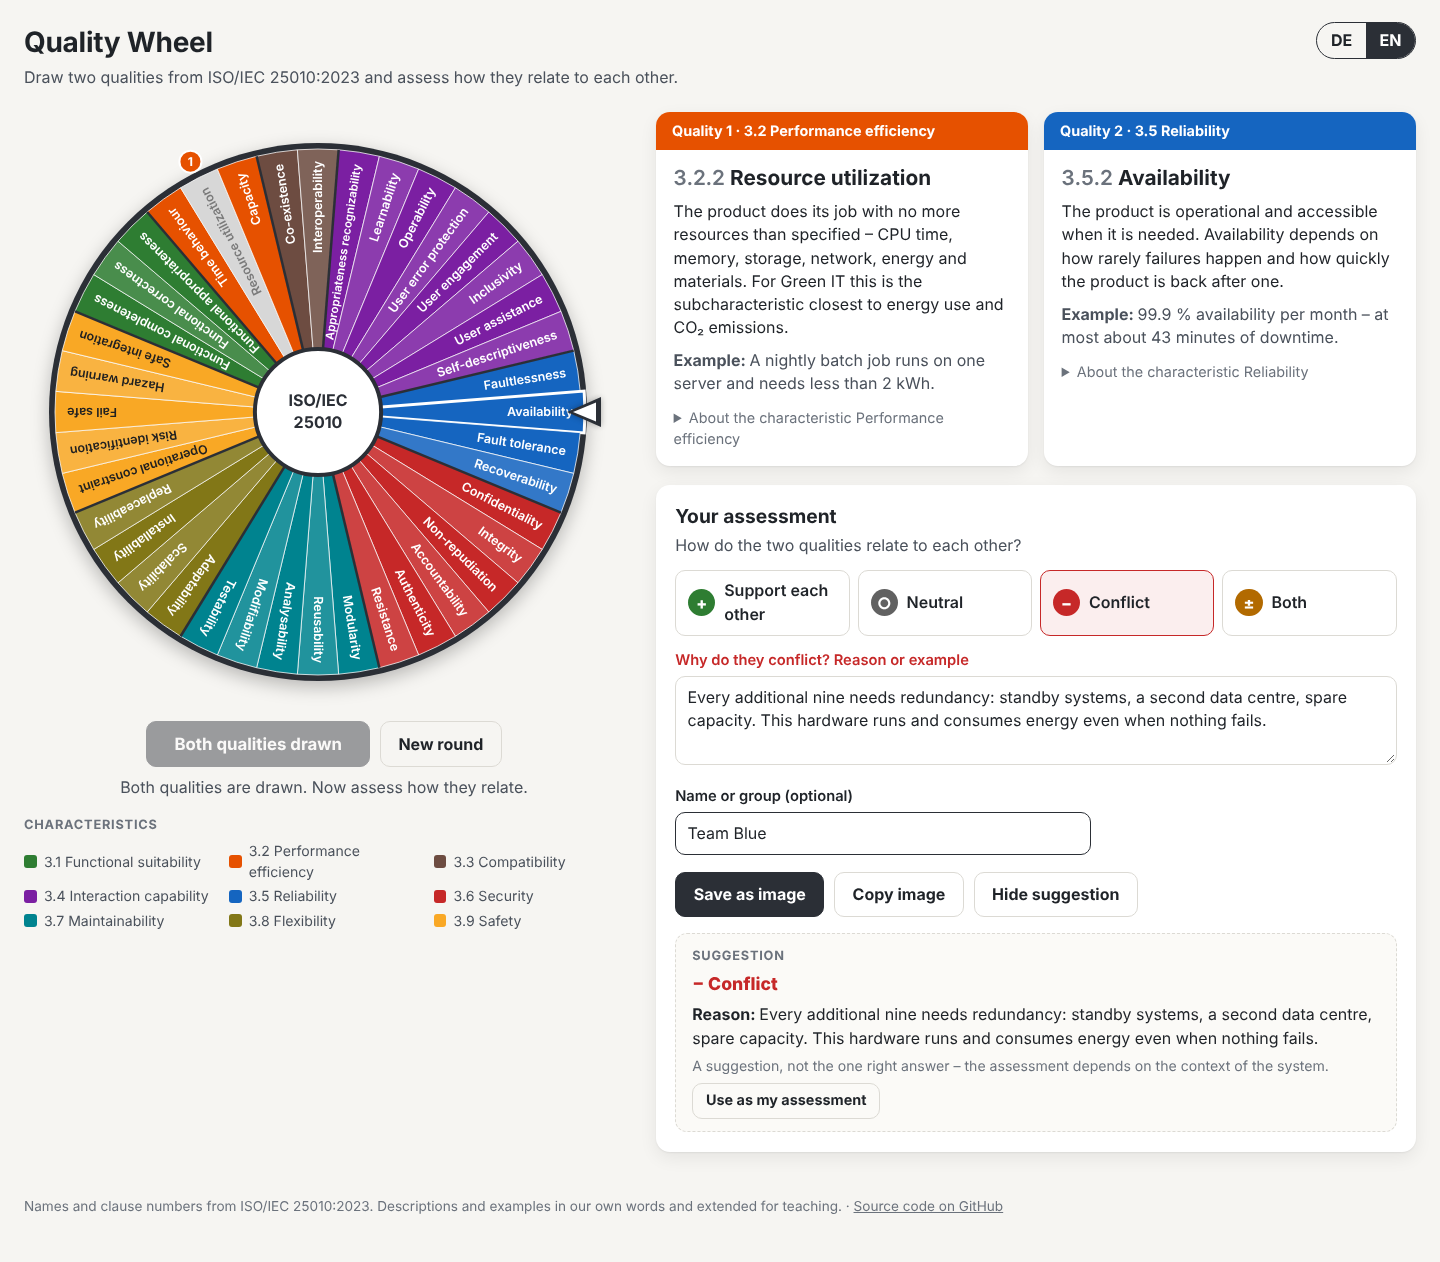
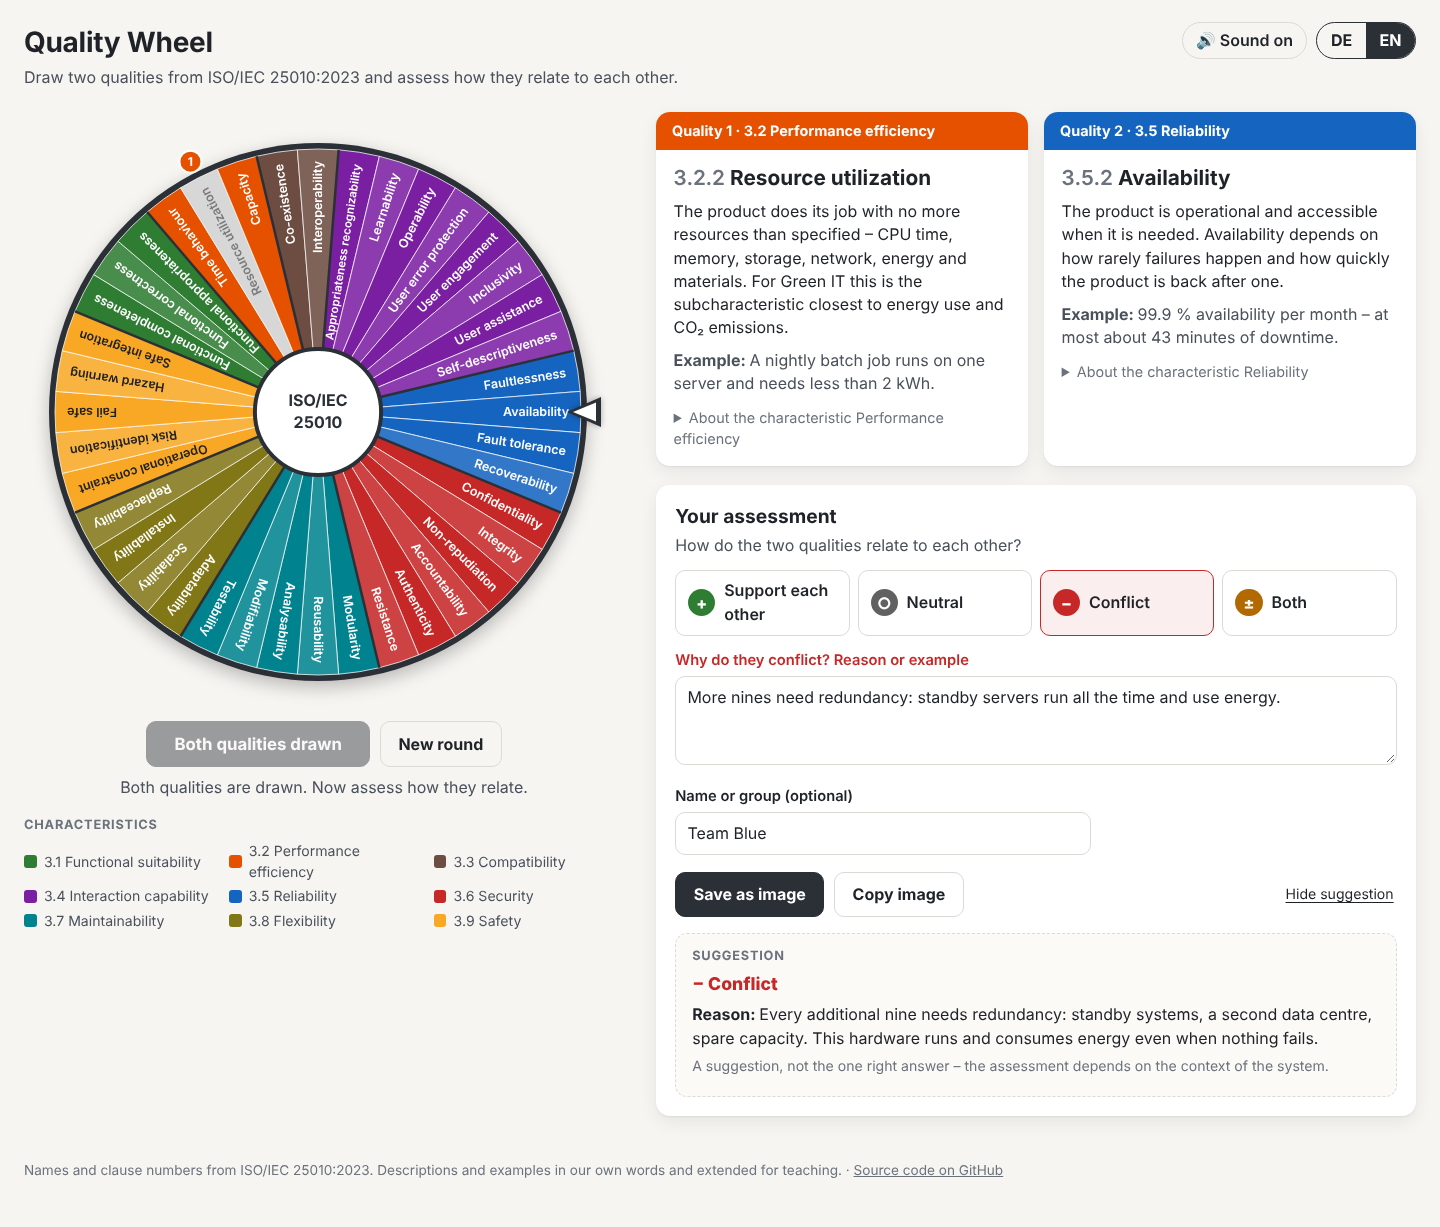
Suggestion only after an own assessment, as a quiet link without copying
The link to compare with a suggestion appears once a relation is chosen and the reason has at least
40 characters. The button to copy the suggestion into the own assessment is gone. ?teacher makes the
suggestion available at once.

Claude-Session: https://claude.ai/code/session_014ALvZ2R2jnjokbTBT7FRgk

diff --git a/js/app.js b/js/app.js
@@ -12,6 +12,10 @@
     name: "",
     suggestionOpen: false
   };
+  // Teacher mode (?teacher): the suggestion is available at once.
+  // Otherwise it appears only after an own assessment with a reason of some length.
+  var teacher = params.has("teacher");
+  var MIN_OWN_TEXT = 40;
   var wheel;
 
   function initialLang() {
@@ -168,14 +172,21 @@
     $("name").disabled = !ready;
     $("export").disabled = !ready;
     $("copy").disabled = !ready;
-    $("suggest").disabled = !ready;
     $("copy").hidden = !(window.ClipboardItem && navigator.clipboard && navigator.clipboard.write);
     renderSuggestion();
   }
 
+  // An own assessment exists: a relation is chosen and its text fields hold enough text.
+  function ownAssessmentDone() {
+    if (!state.relation) return false;
+    var len = QW.relationFields[state.relation].reduce(function (n, f) { return n + state.texts[f].trim().length; }, 0);
+    return len >= MIN_OWN_TEXT;
+  }
+
   function renderSuggestion() {
     var box = $("suggestion"), btn = $("suggest");
-    var ready = state.drawn.length === 2;
+    var ready = state.drawn.length === 2 && (teacher || ownAssessmentDone());
+    btn.hidden = !ready;
     btn.textContent = state.suggestionOpen ? t("hideSuggestion") : t("showSuggestion");
     btn.setAttribute("aria-expanded", String(state.suggestionOpen && ready));
     box.hidden = !(state.suggestionOpen && ready);
@@ -209,12 +220,6 @@
     note.className = "note";
     note.textContent = t("suggestionNote");
     box.appendChild(note);
-    var adopt = document.createElement("button");
-    adopt.type = "button";
-    adopt.className = "ghost small";
-    adopt.textContent = t("adopt");
-    adopt.addEventListener("click", function () { adoptSuggestion(s); });
-    box.appendChild(adopt);
   }
 
   function renderAll() {
@@ -251,18 +256,6 @@
     wheel.highlight = null;
     wheel.draw();
     renderAll();
-  }
-
-  function hasOwnText() {
-    return Object.keys(state.texts).some(function (k) { return state.texts[k].trim() !== ""; });
-  }
-
-  function adoptSuggestion(s) {
-    if ((state.relation || hasOwnText()) && !window.confirm(t("adoptConfirm"))) return;
-    state.relation = s.rel;
-    state.texts = { support: "", conflict: "", neutral: "" };
-    QW.relationFields[s.rel].forEach(function (f) { state.texts[f] = s[f][state.lang]; });
-    renderAssessment();
   }
 
   function exportPng() {
@@ -317,7 +310,10 @@
       });
     });
     ["support", "conflict", "neutral"].forEach(function (f) {
-      $("text-" + f).addEventListener("input", function (e) { state.texts[f] = e.target.value; });
+      $("text-" + f).addEventListener("input", function (e) {
+        state.texts[f] = e.target.value;
+        renderSuggestion();
+      });
     });
     $("name").addEventListener("input", function (e) { state.name = e.target.value; });
     $("export").addEventListener("click", exportPng);
@@ -342,7 +338,7 @@
     }
     var rel = params.get("rel");
     if (state.drawn.length === 2 && QW.relations[rel]) state.relation = rel;
-    if (state.drawn.length === 2 && params.has("suggest")) state.suggestionOpen = true;
+    if (teacher && state.drawn.length === 2 && params.has("suggest")) state.suggestionOpen = true;
     setLang(state.lang);
   }
 

diff --git a/js/i18n.js b/js/i18n.js
@@ -42,13 +42,11 @@ QW.strings = {
     copyPng: "Copy image",
     copied: "Image copied.",
     copyFailed: "Copying is not possible in this browser – please use “Save as image”.",
-    showSuggestion: "Show suggestion",
+    showSuggestion: "Compare with a suggestion",
     hideSuggestion: "Hide suggestion",
     suggestionTitle: "Suggestion",
     suggestionNone: "There is no suggestion for this pair yet. So far, all pairs with 3.2.2 Resource utilization are covered.",
     suggestionNote: "A suggestion, not the one right answer – the assessment depends on the context of the system.",
-    adopt: "Use as my assessment",
-    adoptConfirm: "Replace your own assessment with the suggestion?",
     label_support: "Support",
     label_conflict: "Conflict",
     label_neutral: "Reason",
@@ -95,13 +93,11 @@ QW.strings = {
     copyPng: "Bild kopieren",
     copied: "Bild kopiert.",
     copyFailed: "Kopieren geht in diesem Browser nicht – bitte „Als Bild speichern“ verwenden.",
-    showSuggestion: "Vorschlag anzeigen",
+    showSuggestion: "Mit Vorschlag vergleichen",
     hideSuggestion: "Vorschlag ausblenden",
     suggestionTitle: "Vorschlag",
     suggestionNone: "Für dieses Paar gibt es noch keinen Vorschlag. Bisher sind alle Paare mit 3.2.2 Ressourcennutzung bewertet.",
     suggestionNote: "Ein Vorschlag, keine Musterlösung – die Bewertung hängt vom Kontext des Systems ab.",
-    adopt: "Als meine Einschätzung übernehmen",
-    adoptConfirm: "Deine eigene Einschätzung durch den Vorschlag ersetzen?",
     label_support: "Unterstützung",
     label_conflict: "Widerspruch",
     label_neutral: "Begründung",

diff --git a/css/style.css b/css/style.css
@@ -73,6 +73,12 @@ button.ghost { background: transparent; border: 1.5px solid var(--line); }
 button.ghost:hover:not(:disabled) { border-color: var(--accent); }
 button:active:not(:disabled) { transform: translateY(1px); }
 button:disabled { opacity: .45; cursor: not-allowed; }
+button.link-btn {
+  border: 0; background: none; padding: .6rem .2rem; color: var(--muted); font-size: .88rem;
+  text-decoration: underline; text-underline-offset: 3px; cursor: pointer; margin-left: auto;
+}
+button.link-btn:hover { color: var(--ink); }
+button.link-btn[hidden] { display: none; }
 button.small { padding: .4rem .8rem; font-size: .9rem; }
 #spin { min-width: 14rem; font-size: 1.05rem; }
 :focus-visible { outline: 3px solid #4c8bf5; outline-offset: 2px; }

diff --git a/index.html b/index.html
@@ -71,7 +71,7 @@
         <div class="actions">
           <button type="button" id="export" class="primary" data-i18n="exportPng"></button>
           <button type="button" id="copy" class="ghost" data-i18n="copyPng"></button>
-          <button type="button" id="suggest" class="ghost" aria-controls="suggestion"></button>
+          <button type="button" id="suggest" class="link-btn" aria-controls="suggestion" hidden></button>
         </div>
         <div id="suggestion" class="suggestion" hidden></div>
       </section>

diff --git a/README.md b/README.md
@@ -21,7 +21,9 @@ The app speaks English and German (switch at the top right); everything in this 
 - Each card shows the clause number, the name, a description and an example, and the characteristic it belongs to.
 - The assessment has four options. “Both” asks for one example where the qualities support each other and one where
   they conflict.
-- “Show suggestion” shows a prepared assessment for the pair, if there is one. A suggestion is a starting point for
+- “Compare with a suggestion” shows a prepared assessment for the pair, if there is one. The link appears only after
+  the students have chosen a relation and written a reason (at least 40 characters), so the suggestion is something
+  to compare with, not a shortcut. It cannot be copied into the own assessment. A suggestion is a starting point for
   discussion, not the one right answer – the relation always depends on the context of the system.
 - “Save as image” downloads a PNG with both qualities and the assessment; “Copy image” puts it on the clipboard
   (in browsers that support it).
@@ -47,7 +49,8 @@ and all suggestions (also run by the GitHub workflow before publishing).
 ### Launch options
 
 For teaching and tests: `index.html?lang=de` sets the language, `pick=3.2.2,3.6.1` starts with these two qualities
-drawn, `rel=both` preselects an assessment, `suggest` opens the suggestion.
+drawn, `rel=both` preselects an assessment, `teacher` makes the suggestion available at once (for demos and the debrief),
+`teacher&suggest` opens it.
 
 ## About the texts
 
